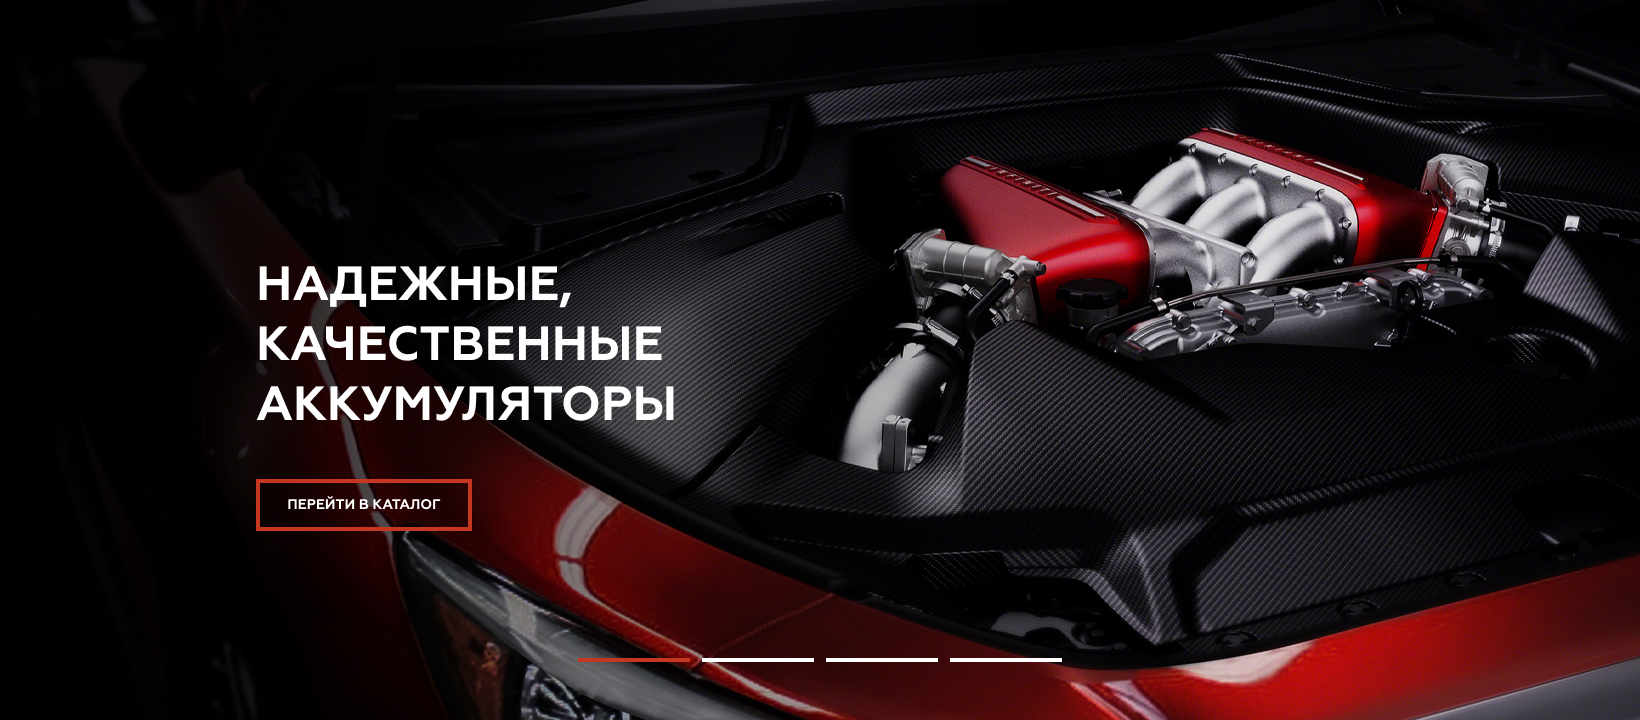
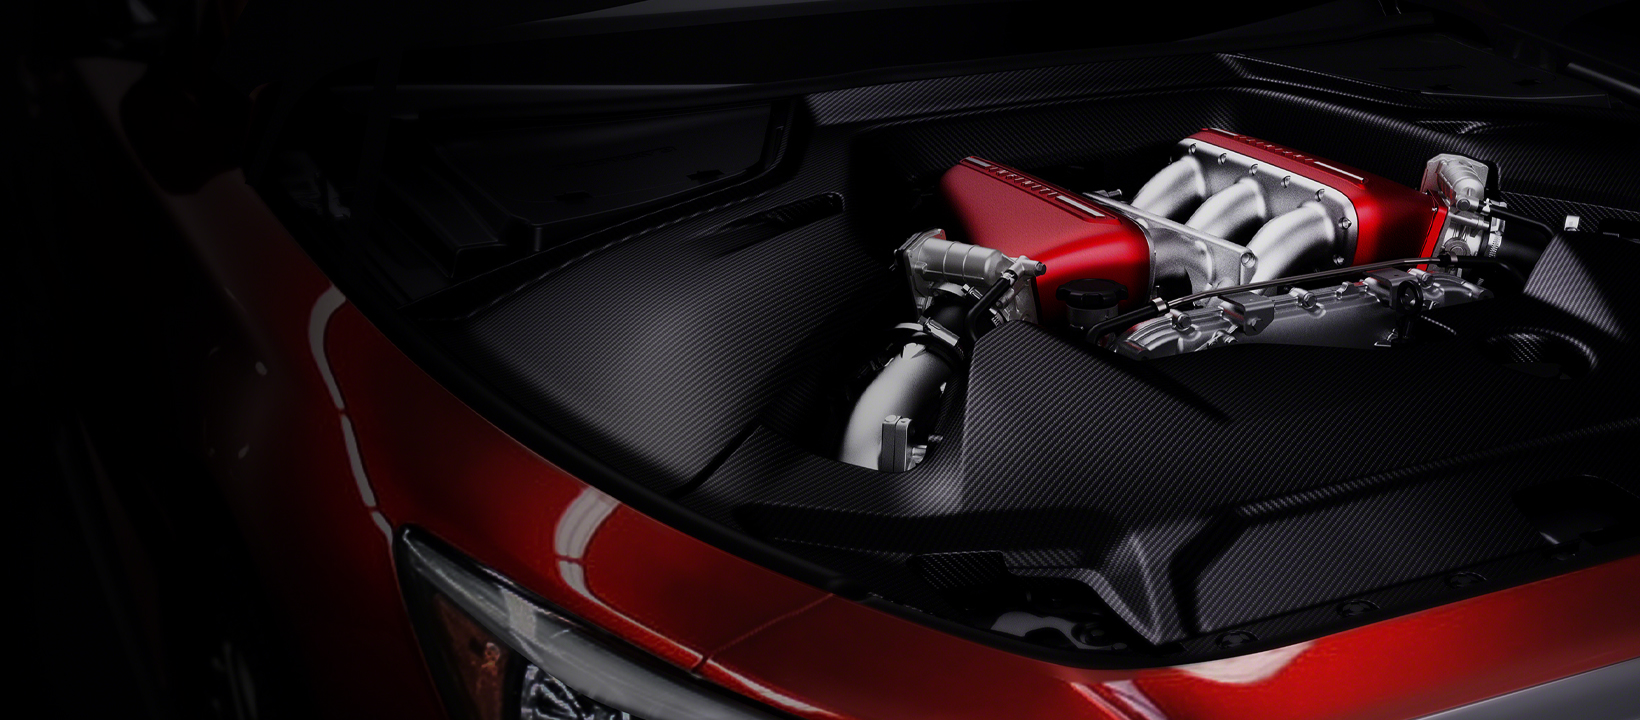
last change

Changed region(s): [[0.1555, 0.3667, 0.4354, 0.5806], [0.1555, 0.6417, 0.2799, 0.7639]]

diff --git a/style.css b/style.css
@@ -1,0 +1,88 @@
+body {
+	font-family: 'montserat', sans-serif;
+
+}
+
+
+#hero {
+	background-image: url(./images/banner.png);
+	background-size: cover;
+	background-position: center;
+	background-repeat: no-repeat;
+}
+
+#hero nav {
+	background-color: #0E0E0E;
+}
+
+.nav-list {
+	display: flex;
+	align-items: center;
+	width: 1130px;
+	margin: 0 256px ;
+	padding: 34px 0 18px 0;
+}
+
+.nav-list li {
+	color: #FFFFFF;
+	font-weight: 500;
+	font-size: 16px;
+	text-align: center;
+	margin-right: 30px;
+	list-style: none;
+}
+
+a {
+	all: unset;
+}
+
+.btn-call {
+	font-size: 12px;
+	padding: 12px 20px;
+	border: 4px solid #D42E12;
+	background: none;
+	color: #FFFFFF;
+	Line-height: 15.1px;
+	margin-left: 13px;
+	font-weight: 700;
+}
+
+
+.btn-search {
+	background: none;
+	border: none;
+	padding: 8px;
+}
+
+.btn-basket {
+	background: none;
+	border: none;
+}
+
+.hero-info {
+	font-weight: 700;
+	font-size: 48px;
+	line-height: 60.38px;
+	width: 100%;
+	height: 100%;
+}
+
+.hero-title {
+	color: #FFFFFF;
+	width: 30%;
+	margin-top: 155px;
+	margin-bottom: 52px;
+	line-height: 60.38px;
+	margin-left: 256px;
+}
+
+.btn-catalog{
+	font-size: 18px;
+	padding: 18px 20px;
+	border: 4px solid #D42E12;
+	background: none;
+	color: #FFFFFF;
+	Line-height: 15.1px;
+	font-weight: 700;
+	margin: 0 0 189px 256px;
+}

diff --git a/index.html b/index.html
@@ -6,6 +6,11 @@
 	<meta name="viewport" content="width=device-width, initial-scale=1.0">
 	<title>Document</title>
 	<link rel="stylesheet" href="./style.css">
+	<link rel="preconnect" href="https://fonts.googleapis.com">
+	<link rel="preconnect" href="https://fonts.gstatic.com" crossorigin>
+	<link
+		href="https://fonts.googleapis.com/css2?family=Cormorant+Garamond:wght@400;500;700&family=Montserrat:ital,wght@0,100..900;1,100..900&display=swap"
+		rel="stylesheet">
 </head>
 
 <body>
@@ -35,10 +40,14 @@
 						<button class="btn-call">Заказать звонок</button>
 					</li>
 					<li>
-						<button class="btn-search"><img src="" alt=""></button>
+						<button class="btn-search">
+							<img src="./images/search.png" alt="">
+						</button>
 					</li>
 					<li>
-						<button class="btn-basket"><img src="" alt=""></button>
+						<button class="btn-basket">
+							<img src="./images/basket.png" alt="">
+						</button>
 					</li>
 				</ul>
 			</nav>
@@ -46,7 +55,7 @@
 				<h1 class="hero-title">
 					Надежные, качественные аккумуляторы
 				</h1>
-				<button>Перейти в каталог</button>
+				<button class="btn-catalog">Перейти в каталог</button>
 			</div>
 
 		</section>
